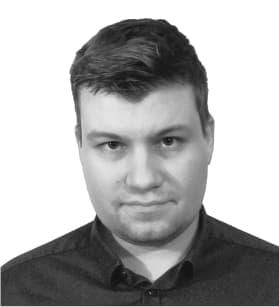
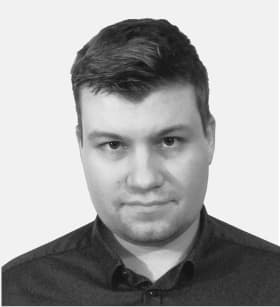
changes

diff --git a/el-gamedev/index.html b/el-gamedev/index.html
@@ -6,7 +6,7 @@
     <meta name="viewport" content="width=device-width , initial-scale=1">
     <meta name="description" content="">
     <meta name="keywords" content="">
-    <title>Онлайн-курс по разработке игр на Unity для начинающих - ExtraLevel</title>
+    <title>Онлайн-школа ExraLevel</title>
     <!--link(rel='icon' , href='extra-level.ico' type='image/x-icon')-->
     <link rel="shortcut icon" href="gamedev/images/favicon.ico" type="image/x-icon">
     <link rel="stylesheet" href="https://cdnjs.cloudflare.com/ajax/libs/magnific-popup.js/1.1.0/magnific-popup.css">
@@ -54,8 +54,9 @@
               </div>
             </div>
             <div class="col-md-5">
-              <div class="hero-img">
-                <!--img(src=assetsUrl + "images/hero-large.png").hero-large--><img class="hero-person" src="gamedev/images/hero.png"><img class="hero-bg" src="gamedev/images/hero-bg.png">
+              <div class="hero-img"><img class="hero-large" src="gamedev/images/hero-large.png">
+                <!--img(src=assetsUrl + "images/hero.png").hero-person-->
+                <!--img(src=assetsUrl + "images/hero-bg.png").hero-bg-->
               </div>
             </div>
             <div class="col-md-12">
@@ -198,7 +199,7 @@
             </div>
             <div class="col-md-4 col-8">
               <div class="teacher-item animated">
-                <div class="teacher-img"><img src="gamedev/images/teacher-4.jpg"></div>
+                <div class="teacher-img"><img src="gamedev/images/teacher-4.png"></div>
                 <h5>Антон Кругляков</h5>
                 <p class="teacher-position">Enterprise Developer Relations Manager в компании Unity</p>
                 <p>Расскажет о практиках ведущих разработчиков в индустрии, чтобы вы могли освоить актуальные навыки</p>
@@ -212,14 +213,15 @@
                 <p>Занимается компьютерной графикой более 15 лет</p>
               </div>
             </div>
-            <div class="col-md-4 col-8">
-              <div class="teacher-item animated">
-                <div class="teacher-img"><img src="gamedev/images/teacher-3.jpg"></div>
-                <h5>Леонид Маковский</h5>
-                <p class="teacher-position">eLearning Developer в Extra Level</p>
-                <p>Евангелист дистанционного обучения. Знает, как сделать его увлекательным и продуктивным</p>
-              </div>
-            </div>
+            <!--.col-md-4.col-8
+            .teacher-item.animated
+              .teacher-img
+                img(src=assetsUrl + "images/teacher-3.jpg")
+              h5 Леонид Маковский
+              p.teacher-position eLearning Developer в Extra Level
+              p Евангелист дистанционного обучения. Знает, как сделать его увлекательным и продуктивным
+            
+            -->
           </div>
         </div>
       </section>

diff --git a/el-gamedev/gamedev/css/style.css b/el-gamedev/gamedev/css/style.css
@@ -214,7 +214,16 @@ nav a {
 
 .hero-img .hero-large {
   position: absolute;
-  right: -100px; }
+  right: -100px;
+  animation: translate 6s infinite; }
+
+@keyframes translate {
+  0% {
+    top: 0; }
+  50% {
+    top: -40px; }
+  100% {
+    top: 0; } }
 
 @keyframes opacity {
   0% {
@@ -337,7 +346,8 @@ h5 {
 .teacher-img {
   max-width: 280px;
   margin-bottom: 10px;
-  overflow: hidden; }
+  overflow: hidden;
+  background: #F0F0F0; }
   .teacher-img img {
     transition: all .3s ease; }
 
@@ -358,10 +368,10 @@ h5 {
       position: absolute;
       top: -50px;
       right: -150px;
-      animation: rotating 9s infinite; }
+      animation: rotating 13s infinite; }
 
 .faq-img {
-  animation: rotating 9s infinite; }
+  animation: rotating 13s infinite; }
 
 @keyframes rotating {
   0% {
@@ -766,10 +776,9 @@ footer {
   margin-top: 40px;
   text-align: center;
   font-size: 20px;
-  line-height: 30px;
-  color: #A4A6AD; }
+  line-height: 30px; }
   .popup-form + .personal-data a {
-    color: #A4A6AD; }
+    color: #111F56; }
 
 button.mfp-close {
   width: 44px;
@@ -819,6 +828,8 @@ button.mfp-close {
     margin-bottom: 15px; } }
 
 @media screen and (max-width: 1200px) {
+  .hero-img .hero-large {
+    right: -260px; }
   .hero-img .hero-bg {
     right: -94px;
     bottom: 315px; }

diff --git a/el-gamedev/elements/head.html b/el-gamedev/elements/head.html
@@ -4,7 +4,7 @@
 <meta name="viewport" content="width=device-width , initial-scale=1"/>
 <meta name="description" content=""/>
 <meta name="keywords" content=""/>
-<title>Онлайн-курс по разработке игр на Unity для начинающих - ExtraLevel</title>
+<title>Онлайн-школа ExraLevel</title>
 <!--link(rel='icon' , href='extra-level.ico' type='image/x-icon')-->
 <link rel="shortcut icon" href="gamedev/images/favicon.ico" type="image/x-icon"/>
 <link rel="stylesheet" href="https://cdnjs.cloudflare.com/ajax/libs/magnific-popup.js/1.1.0/magnific-popup.css"/>

diff --git a/el-gamedev/gamedev/js/main.js b/el-gamedev/gamedev/js/main.js
@@ -26,6 +26,18 @@ $(function () {
 
   });
 
+  // Intro effect
+  var movementStrength = 25;
+  var height = movementStrength / $(window).height();
+  var width = movementStrength / $(window).width();
+  $(".intro").mousemove(function(e){
+    var pageX = e.pageX - ($(window).width() / 2);
+    var pageY = e.pageY - ($(window).height() / 2);
+    var newvalueX = width * pageX * -1;
+    var newvalueY = height * pageY * -1;
+    $('.hero-large').css({"transform" : "translateX(" + newvalueX +"px"});
+  });
+
   // Example of works slider
   $('.example-slider').slick({
     infinite: true,
